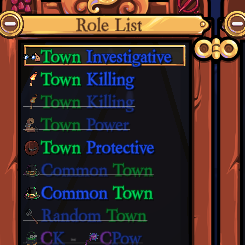
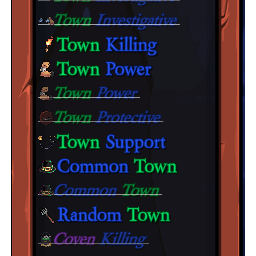
Add more options

diff --git a/CustomCrossOut.cs b/CustomCrossOut.cs
@@ -24,19 +24,32 @@ namespace CustomCrossOut {
     [HarmonyPatch(typeof(RoleListItem), "ValidateCrossOut")]
     class ValidateCrossOut_Patch {
         public static bool Prefix(ref RoleListItem __instance) {
+            TMP_Text roleLabelText = __instance.roleLabel.GetComponent<TMP_Text>();
+
             if (__instance.isCrossedOut) {
                 int crossedOutOpacity = ModSettings.GetInt("Crossed Out Opacity %");
-                bool addStrikethrough = ModSettings.GetBool("Strikethrough Line");
+                bool addStrikethrough = ModSettings.GetBool("Strikethrough Crossed Out Roles");
+                bool addItalics = ModSettings.GetBool("Italicize Crossed Out Roles");
+                int fontSize = ModSettings.GetInt("Crossed Out Fontsize");
 
                 if (addStrikethrough) {
-                    __instance.roleLabel.GetComponent<TMP_Text>().fontStyle |= FontStyles.Strikethrough;
+                    roleLabelText.fontStyle |= FontStyles.Strikethrough;
                 }
 
-                __instance.roleLabel.GetComponent<TMP_Text>().alpha = crossedOutOpacity / 100f;
+                if (addItalics) {
+                    roleLabelText.fontStyle |= FontStyles.Italic;
+                }
+
+                roleLabelText.alpha = crossedOutOpacity / 100f;
+                roleLabelText.fontSizeMin = fontSize;
+                roleLabelText.fontSizeMax = fontSize;
             }
             else {
-                __instance.roleLabel.GetComponent<TMP_Text>().fontStyle &= ~FontStyles.Strikethrough;
-                __instance.roleLabel.GetComponent<TMP_Text>().alpha = 1.0f;
+                roleLabelText.fontStyle &= ~FontStyles.Strikethrough;
+                roleLabelText.fontStyle &= ~FontStyles.Italic;
+                roleLabelText.alpha = 1.0f;
+                roleLabelText.fontSizeMin = 25;
+                roleLabelText.fontSizeMax = 25;
             }
             return false;
         }

diff --git a/README.md b/README.md
@@ -3,6 +3,11 @@ Lets you customize how crossed out roles appear in the rolelist.
 
 - Change opacity of crossed out roles
 - Disable the strikethrough on crossed out roles
+- Make crossed out roles italicized
+- Change fontsize of crossed out roles
 
 ### Example with changed opacity
 ![Example](https://doggieli.cc/assets/images/customcrossout.png)
+
+### Example with custom opacity, fontsize, and italics
+![Example2](https://doggieli.cc/assets/images/customcrossout2.png)
